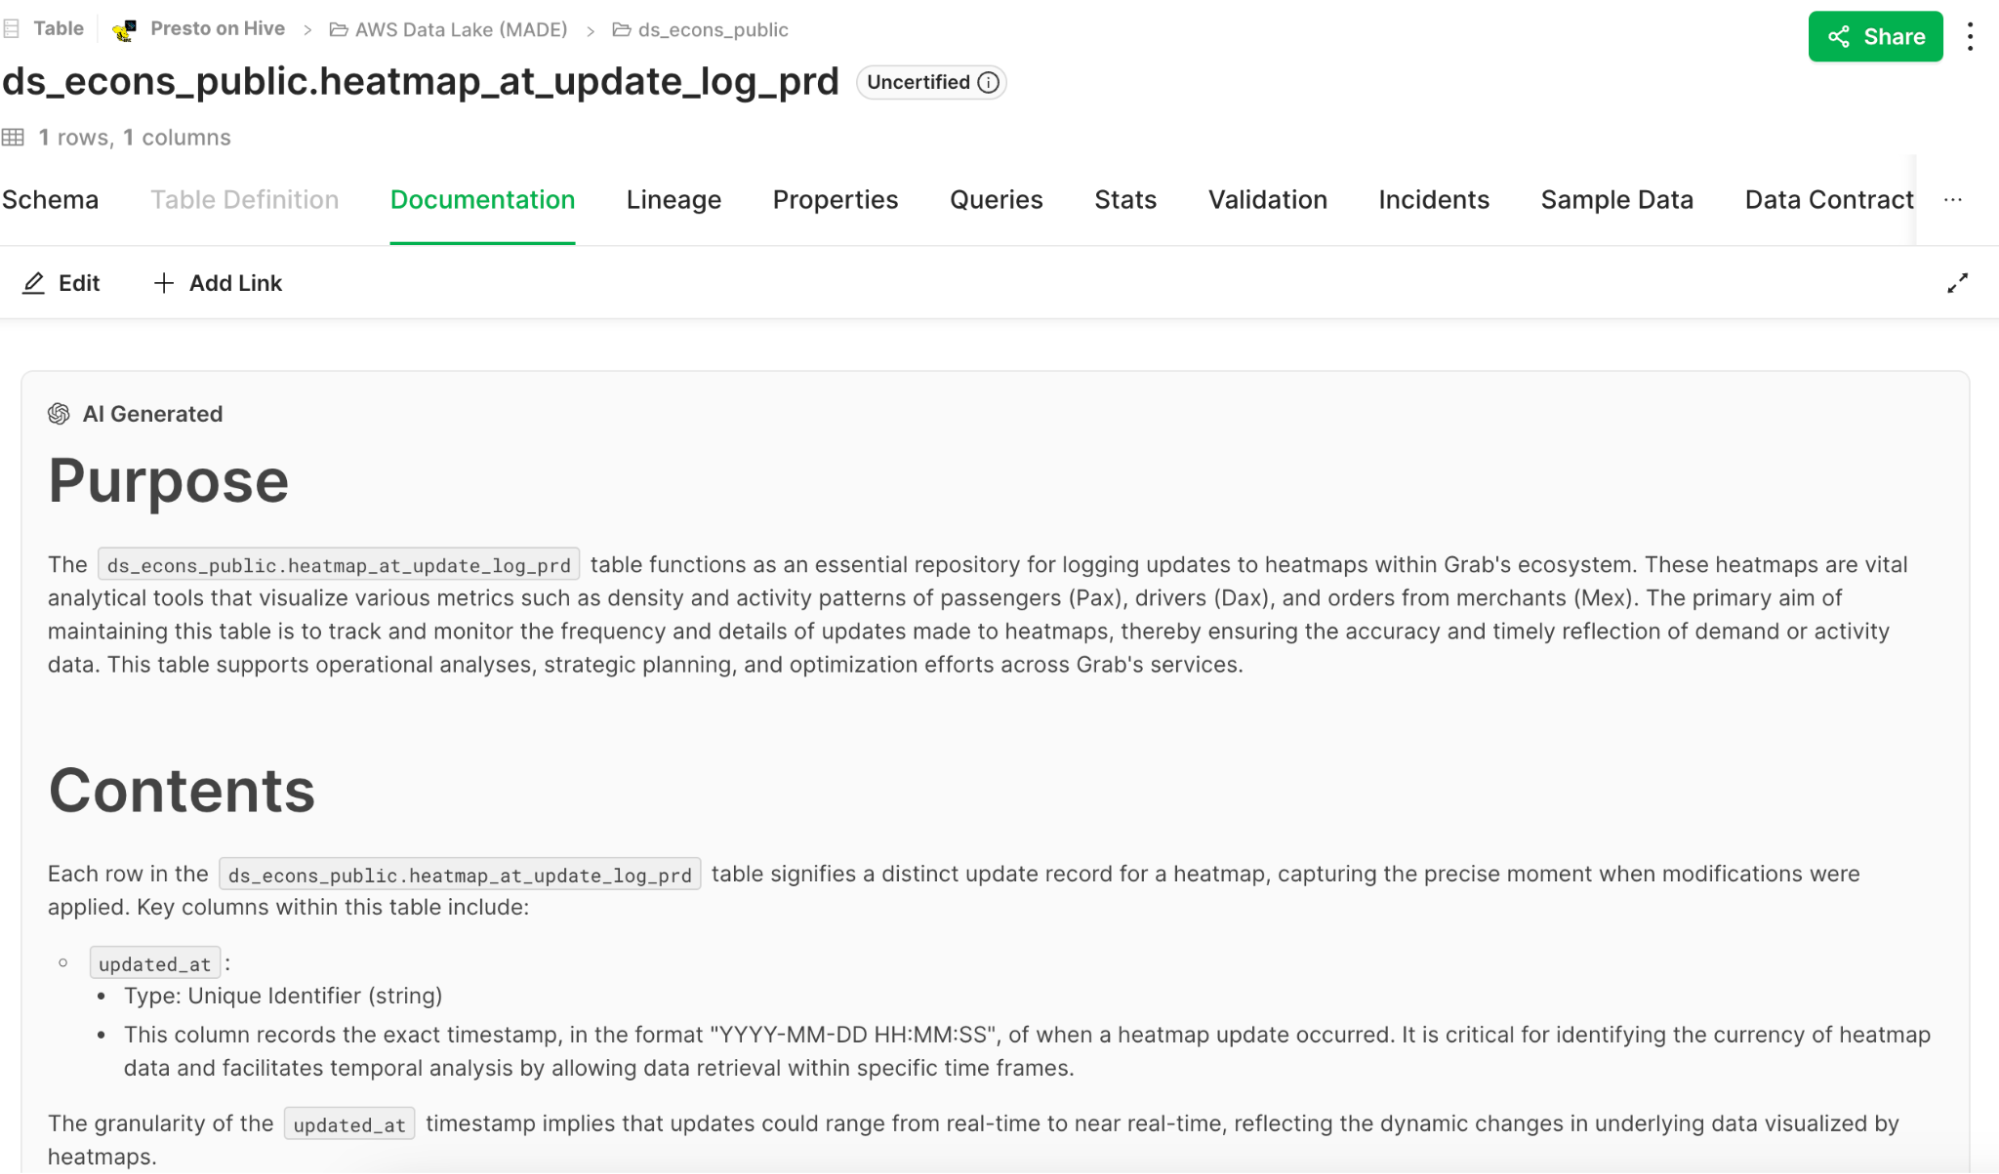
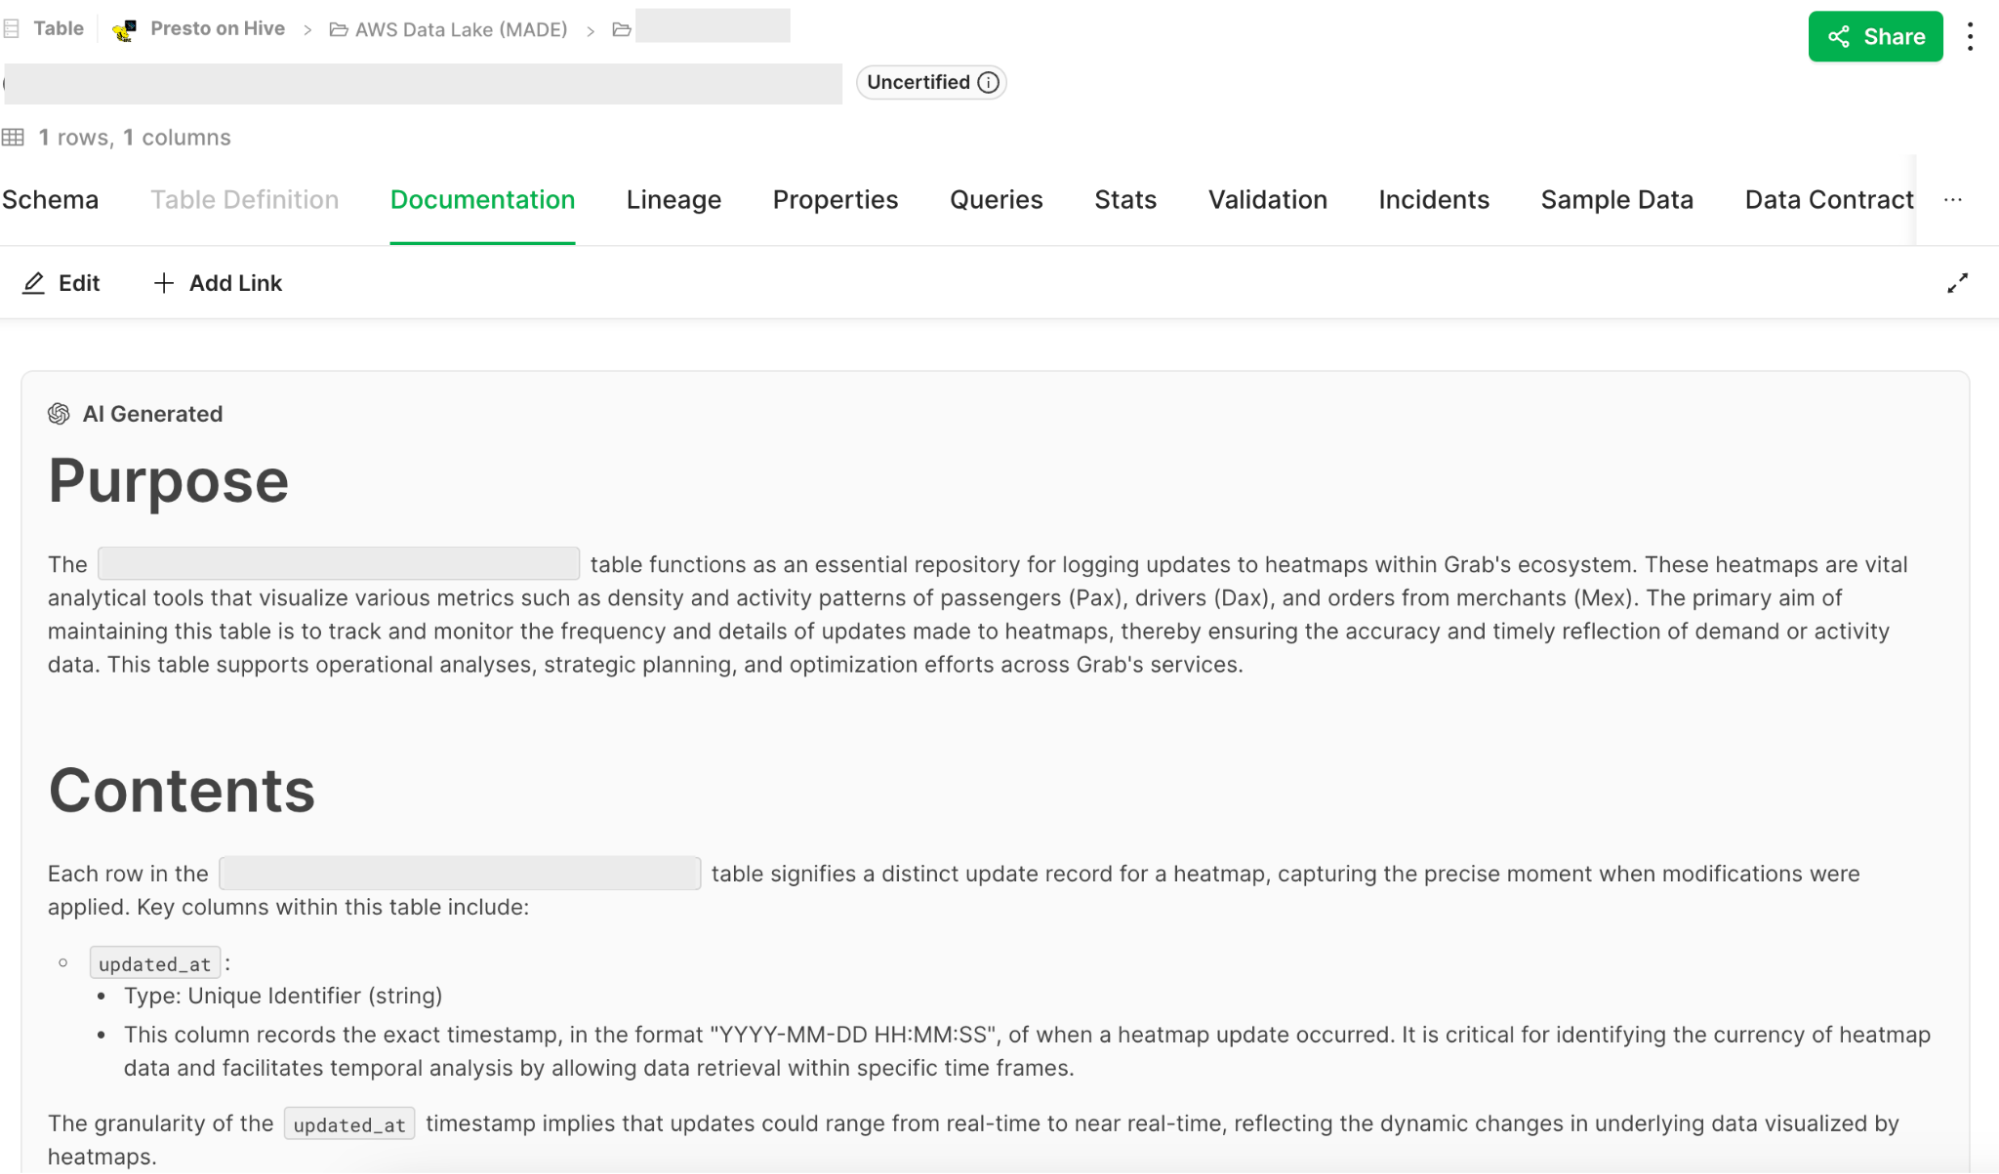
Redact Hubble images

diff --git a/_posts/2024-09-20-hubble-data-discovery.md b/_posts/2024-09-20-hubble-data-discovery.md
@@ -2,8 +2,8 @@
 layout: post
 id: 2024-09-20-hubble-data-discovery
 title: 'Enabling conversational data discovery with LLMs at Grab'
-date: 2024-12-20 00:00:40
-authors: [shreyas-parbat]
+date: 2024-09-26 00:00:40
+authors: [shreyas-parbat, amanda-ng, yucheng-zeng, vinnson-lee, feng-cheng, varun-torka]
 categories: [Engineering]
 tags: [Data Discovery, AI, LLM, Documentation, Elasticsearch]
 comments: true
@@ -53,7 +53,7 @@ Through clickstream analysis and user interviews, the Hubble team identified fou
 Exact and partial searches accounted for 75% of searches on Hubble (and were non-existent on Slack: as a human, receiving a message that just had the name of a dataset would feel rather odd). Given the effectiveness of vanilla Elasticsearch for these categories, the click rank was close to 0.
 
 <div class="post-image-section"><figure>
-  <img src="/img/hubble-data-discovery/image8.png" alt="" style="width:80%"><figcaption align="middle">Fig. 1 Exact and partial searches.</figcaption>
+  <img src="/img/hubble-data-discovery/image8.png" alt="" style="width:80%">
   </figure>
 </div>
 
@@ -61,7 +61,7 @@ Exact and partial searches accounted for 75% of searches on Hubble (and were non
 
 
 <div class="post-image-section"><figure>
-  <img src="/img/hubble-data-discovery/image1.png" alt="" style="width:80%"><figcaption align="middle">Fig. 2 Inexact searches.</figcaption>
+  <img src="/img/hubble-data-discovery/image1.png" alt="" style="width:80%">
   </figure>
 </div>
 
@@ -90,14 +90,14 @@ To support HubbleIQ, we built a documentation generation engine that used GPT-4 
 We added a "generate" button on the Hubble UI, allowing data producers to easily generate documentation for their tables. This feature also supported the ongoing Grab-wide initiative to certify tables.
 
 <div class="post-image-section"><figure>
-  <img src="/img/hubble-data-discovery/image7.png" alt=""><figcaption align="middle">Fig. 3 HubbleIQ.</figcaption>
+  <img src="/img/hubble-data-discovery/image7.png" alt="">
   </figure>
 </div>
 
 In conjunction, we took the initiative to pre-populate docs for the most critical tables, while notifying data producers to review the generated documentation. Such docs were visible to data consumers with an "AI-generated" tag as a precaution. When data producers accepted or edited the documentation, the tag was removed.
 
 <div class="post-image-section"><figure>
-  <img src="/img/hubble-data-discovery/image3.png" alt=""><figcaption align="middle">Fig. 4 AI-generated documentation on Hubble.</figcaption>
+  <img src="/img/hubble-data-discovery/image3.png" alt="">
   </figure>
 </div>
 
@@ -110,14 +110,14 @@ With high documentation coverage in place, we were ready to harness the power of
 First, we integrated Hubble with Glean, making all data lake tables with documentation available on the Glean platform. Next, we used [Glean Apps](https://www.glean.com/product/apps) to create the HubbleIQ bot, which was essentially an LLM with a custom system prompt that could access all Hubble datasets that were catalogued on Glean. Finally, we integrated this bot into Hubble search, such that for any search that is likely to be a semantic search, HubbleIQ results are shown on top, followed by regular search results.
 
 <div class="post-image-section"><figure>
-  <img src="/img/hubble-data-discovery/image5.png" alt=""><figcaption align="middle">Fig. 5 HubbleIQ powered by Glean.</figcaption>
+  <img src="/img/hubble-data-discovery/image5.png" alt="">
   </figure>
 </div>
 
 Recently, we integrated HubbleIQ with Slack, allowing data consumers to discover datasets without breaking their flow. Currently, we are working with analytics teams to add the bot to their “ask” channels (where data consumers come to ask contextual search queries for their domains). After integration, HubbleIQ will act as the first line of defence for answering questions in these channels, reducing the need for human intervention.
 
 <div class="post-image-section"><figure>
-  <img src="/img/hubble-data-discovery/image4.png" alt="" style="width:80%"><figcaption align="middle">Fig. 6 HubbleIQ integration with Slack.</figcaption>
+  <img src="/img/hubble-data-discovery/image4.png" alt="" style="width:80%">
   </figure>
 </div>
 
